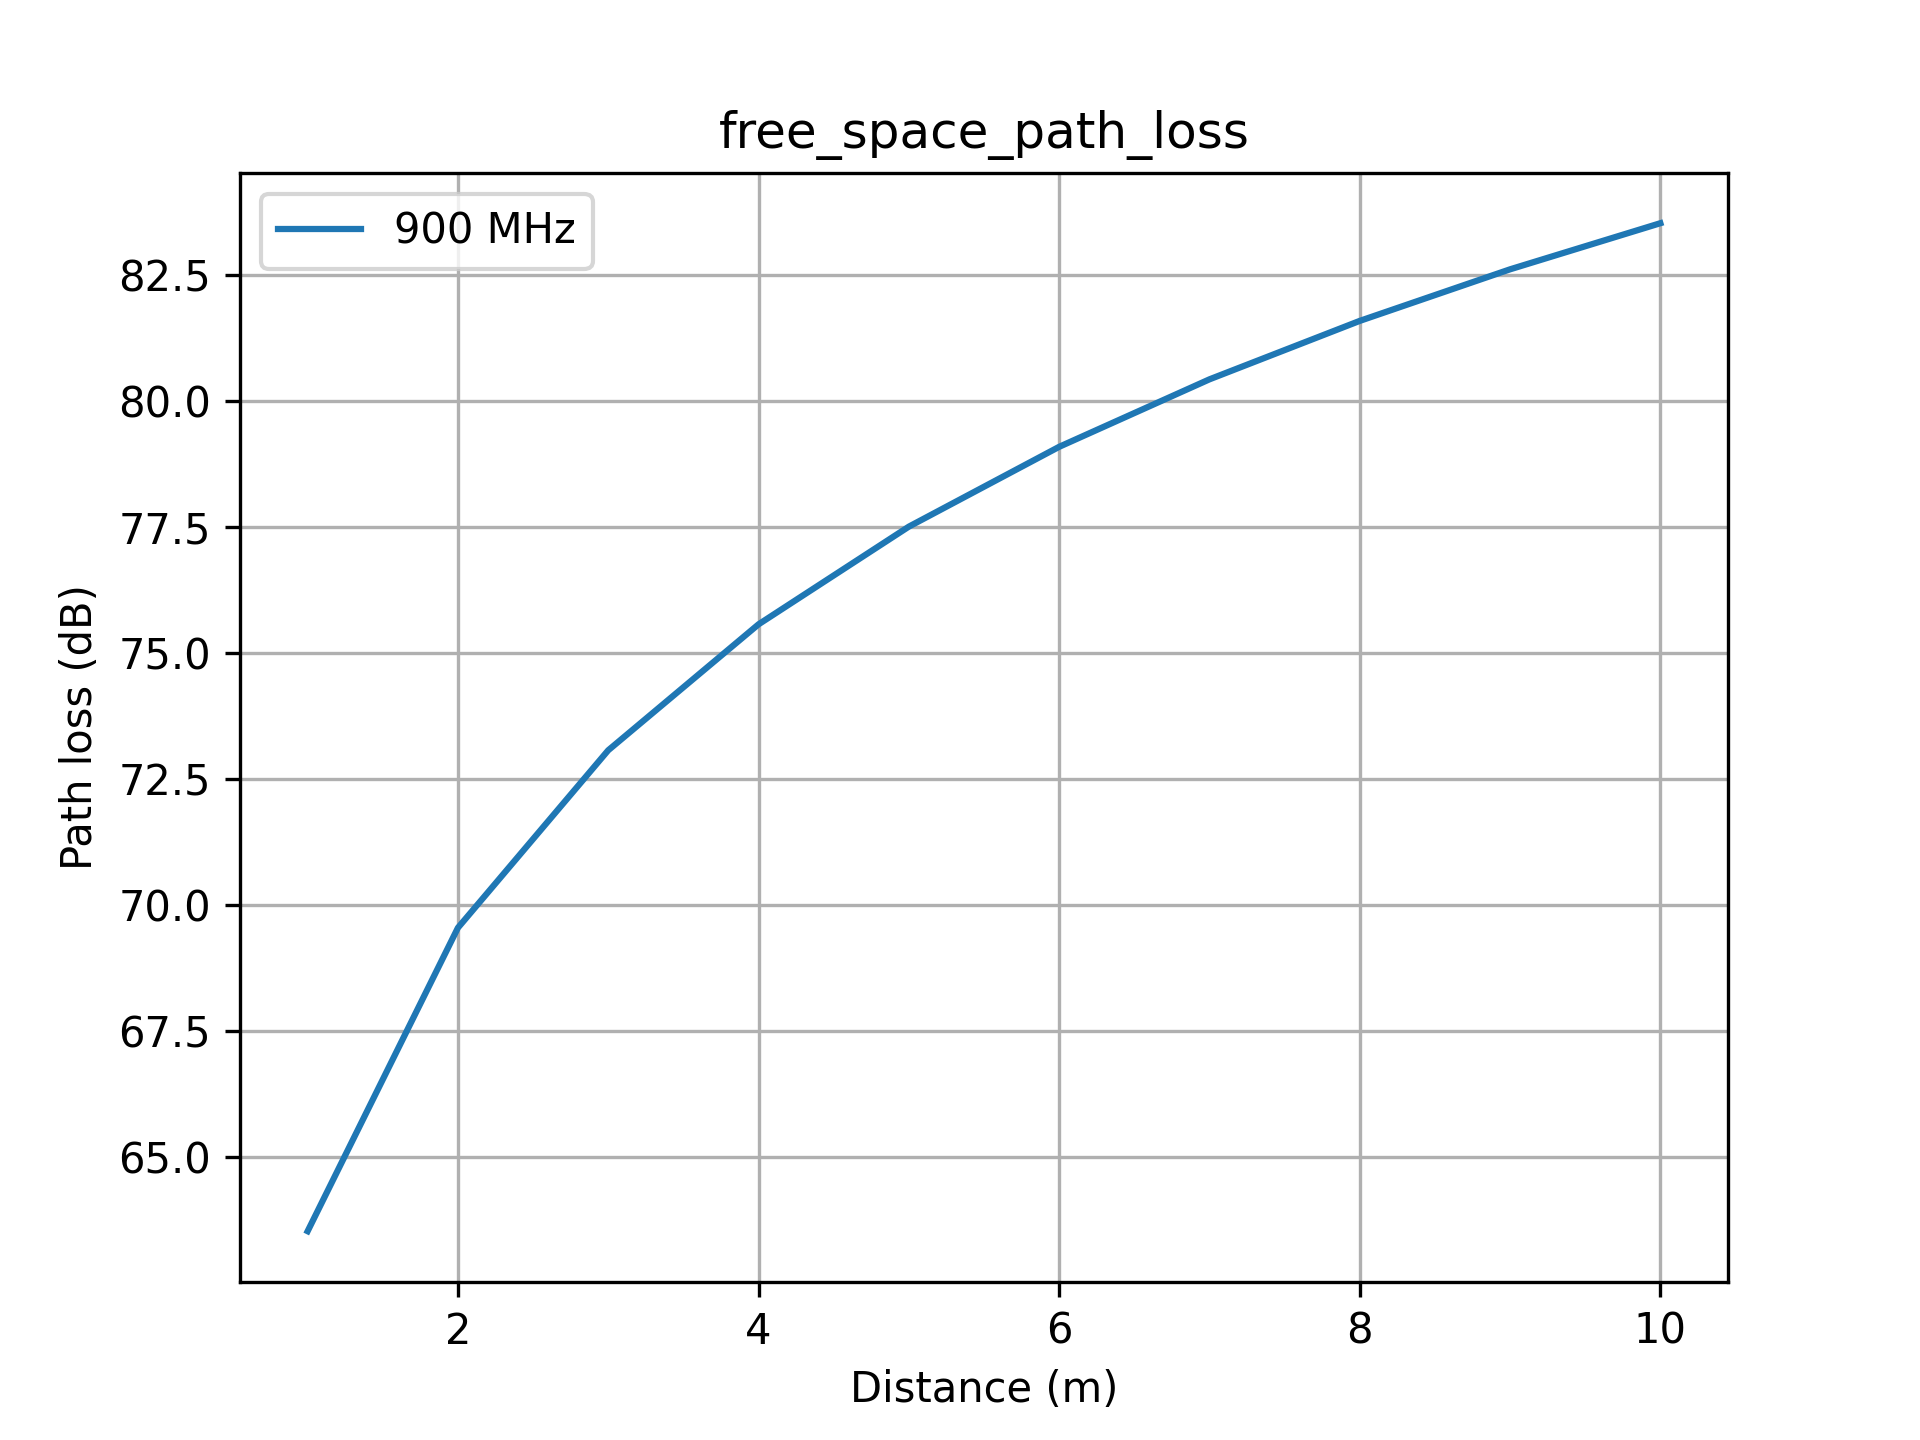
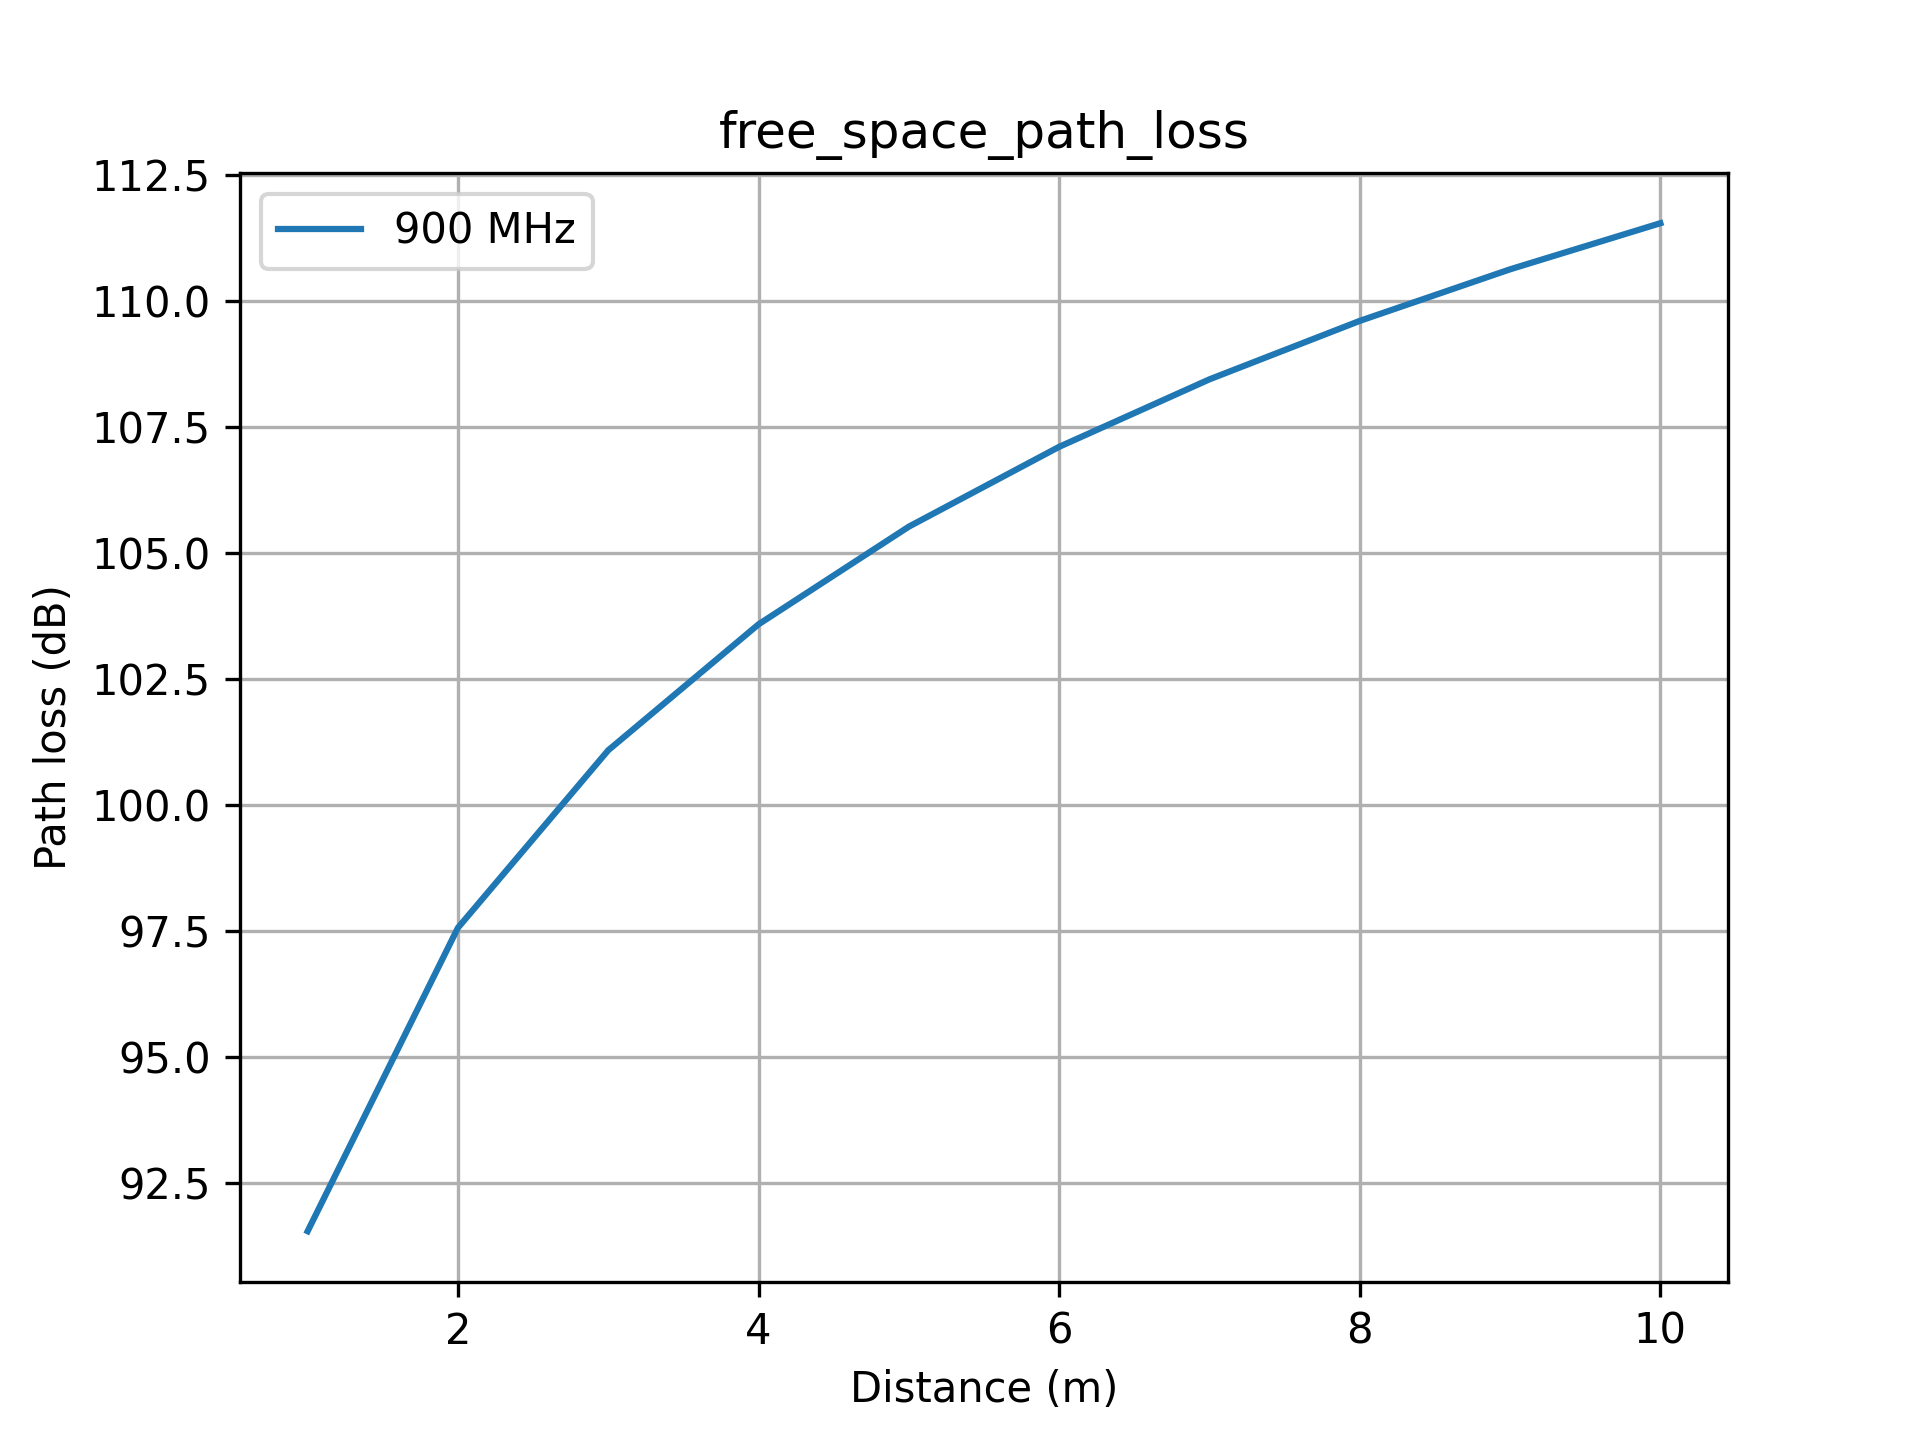
Everything working before class

diff --git a/lab2/lab2.py b/lab2/lab2.py
@@ -8,13 +8,14 @@ Gt = 28
 hm = 1
 
 
-def free_space_path_loss(d, f, Gt):
+def free_space_path_loss(d, f):
     """
     ###d - distance in m
     ###f - frequency in MHz
     ###Gt - transmit antenna gain in dBi"""
-    path_loss = 32.45 + 20 * np.log10(d) + 20 * np.log10(f) - Gt
+    path_loss = 32.45 + 20 * np.log10(d) + 20 * np.log10(f)
     return path_loss
+
 
 
 def CCIR_path_loss(d, f, b, hb, hm):
@@ -98,181 +99,222 @@ def plot_default(title, x_label='Distance (m)', y_label='Path loss (dB)'):
     plt.grid(True)
 
 
-def free_space_received_power(transmitted_power, distance, frequency, tx_antenna_gain=1, rx_antenna_gain=1):
-    """
-    Calculates the received power at a receiver given the transmitted power, distance, path loss, wavelength,
-    and antenna gains.
-
-    Args:
-    transmitted_power (float): Transmitted power in watts.
-    distance (float): Distance in meters between transmitter and receiver.
-    path_loss (float): Path loss in dB.
-    wavelength (float): Wavelength in meters of the radio signal.
-    tx_antenna_gain (float): Gain of the transmitting antenna.
-    rx_antenna_gain (float): Gain of the receiving antenna.
-
-    Returns:
-    float: Received power in watts.
-    """
-    c=3e8
-    Lambda_ = c/frequency 
-    numerator = transmitted_power * tx_antenna_gain * rx_antenna_gain(Lambda_/ (4 * np.pi * distance))**2
-    return numerator
-
-# free_space_received_power(39,d,900e6,14,14)
-
-CCIR_path_loss_1=CCIR_path_loss(d, f[0], 0.25, 35, 1)
-CCIR_path_loss_2=CCIR_path_loss(d, f[1], 0.25, 35, 1)
-path_loss=free_space_path_loss(d, f[0], Gt)
-path_loss_2=free_space_path_loss(d, f[1], Gt)
+def free_space_received_power(transmitted_power, distance, frequency, tx_antenna_gain=14, rx_antenna_gain=14, cable_loss=4):
+    received_power = transmitted_power - \
+        free_space_path_loss(distance, frequency) + \
+        tx_antenna_gain+rx_antenna_gain-cable_loss
+    return received_power
 
 
-fig1=plt.figure(1)
-plt.plot(d, path_loss, label = '900 MHz')
+def CCIR_received_power(transmitted_power, d, f, b, hb, hm, tx_antenna_gain=14, rx_antenna_gain=14, cable_loss=4):
+
+    received_power = transmitted_power - CCIR_path_loss(d, f, b, hb, hm)+tx_antenna_gain + \
+        rx_antenna_gain-cable_loss
+    return received_power
+
+
+def Hata_Model_urban_received_power(transmitted_power, f, h, a, d, C=0, tx_antenna_gain=14, rx_antenna_gain=14, cable_loss=4):
+
+    received_power = transmitted_power - Hata_Model_urban(f, h, a, d, C=0)+tx_antenna_gain + \
+        rx_antenna_gain-cable_loss
+    return received_power
+
+
+def Hata_Model_suburban_received_power(transmitted_power, f, h, a, d, C=0, tx_antenna_gain=14, rx_antenna_gain=14, cable_loss=4):
+
+    received_power = transmitted_power - Hata_Model_suburban(f, h, a, d, C=0)+tx_antenna_gain + \
+        rx_antenna_gain-cable_loss
+    return received_power
+
+
+def Hata_Model_rural_received_power(transmitted_power, f, h, a, d, C=0, tx_antenna_gain=14, rx_antenna_gain=14, cable_loss=4):
+
+    received_power = transmitted_power - Hata_Model_rural(f, h, a, d, C=0)+tx_antenna_gain + \
+        rx_antenna_gain-cable_loss
+    return received_power
+
+
+CCIR_path_loss_1 = CCIR_path_loss(d, f[0], 0.25, 35, 1)
+CCIR_path_loss_2 = CCIR_path_loss(d, f[1], 0.25, 35, 1)
+path_loss = free_space_path_loss(d, f[0])
+path_loss_2 = free_space_path_loss(d, f[1])
+
+
+fig1 = plt.figure(1)
+plt.plot(d, path_loss, label='900 MHz')
 plot_default("free_space_path_loss")
 
 
-fig2=plt.figure(2)
-plt.plot(d, path_loss_2, 'r', label = '1800 MHz')
+fig2 = plt.figure(2)
+plt.plot(d, path_loss_2, 'r', label='1800 MHz')
 plot_default("free_space_path_loss")
 
 
-fig3=plt.figure(3)
-plt.plot(d, path_loss, label = '900 MHz')
-plt.plot(d, path_loss_2, 'r', label = '1800 MHz')
+fig3 = plt.figure(3)
+plt.plot(d, path_loss, label='900 MHz')
+plt.plot(d, path_loss_2, 'r', label='1800 MHz')
 plot_default("free_space_path_loss")
 
 
-fig4=plt.figure(4)
-plt.plot(d, CCIR_path_loss_2, 'r', label = '1800 MHz')
+fig4 = plt.figure(4)
+plt.plot(d, CCIR_path_loss_2, 'r', label='1800 MHz')
 plot_default("CCIR_path_loss")
 
 
-fig5=plt.figure(5)
-plt.plot(d, CCIR_path_loss_1, label = '900 MHz')
-plt.plot(d, CCIR_path_loss_2, 'r', label = '1800 MHz')
+fig5 = plt.figure(5)
+plt.plot(d, CCIR_path_loss_1, label='900 MHz')
+plt.plot(d, CCIR_path_loss_2, 'r', label='1800 MHz')
 plot_default("CCIR_path_loss")
 
 
-fig6=plt.figure(6)
+fig6 = plt.figure(6)
 plt.plot(d, Hata_Model_urban(
-    f[0], 35, Hata_Model_medium_city_correction_factor(900, hm), d), label = '900 MHz')
+    f[0], 35, Hata_Model_medium_city_correction_factor(900, hm), d), label='900 MHz')
 plt.plot(d, Hata_Model_urban(f[1], 35, Hata_Model_medium_city_correction_factor(
-    1800, hm), d), 'r', label = '1800 MHz')
+    1800, hm), d), 'r', label='1800 MHz')
 plot_default("Hata Model urban medium city")
 
 
-fig7=plt.figure(7)
+fig7 = plt.figure(7)
 plt.plot(d, Hata_Model_urban(
-    f[0], 35, Hata_Model_large_city_corection_factor(900, d), d), label = '900 MHz')
+    f[0], 35, Hata_Model_large_city_corection_factor(900, d), d), label='900 MHz')
 plt.plot(d, Hata_Model_urban(f[1], 35, Hata_Model_large_city_corection_factor(
-    1800, d), d, 3), 'r', label = '1800 MHz')
+    1800, d), d, 3), 'r', label='1800 MHz')
 plot_default("Hata Model urban Metroploitan city")
 
 
-fig8=plt.figure(8)
+fig8 = plt.figure(8)
 plt.plot(d, Hata_Model_suburban(
-    f[0], 35, Hata_Model_medium_city_correction_factor(900, hm), d), label = '900 MHz')
+    f[0], 35, Hata_Model_medium_city_correction_factor(900, hm), d), label='900 MHz')
 plt.plot(d, Hata_Model_suburban(f[1], 35, Hata_Model_medium_city_correction_factor(
-    1800, hm), d), 'r', label = '1800 MHz')
+    1800, hm), d), 'r', label='1800 MHz')
 plot_default("Hata Model suburban medium city")
 
 
-fig9=plt.figure(9)
+fig9 = plt.figure(9)
 plt.plot(d, Hata_Model_suburban(
-    f[0], 35, Hata_Model_large_city_corection_factor(900, hm), d), label = '900 MHz')
+    f[0], 35, Hata_Model_large_city_corection_factor(900, hm), d), label='900 MHz')
 plt.plot(d, Hata_Model_suburban(f[1], 35, Hata_Model_large_city_corection_factor(
-    1800, hm), d), 'r', label = '1800 MHz')
+    1800, hm), d), 'r', label='1800 MHz')
 plot_default("Hata Model suburban Metroplotian city")
 
 
-fig10=plt.figure(10)
+fig10 = plt.figure(10)
 plt.plot(d, Hata_Model_rural(
-    f[0], 35, Hata_Model_medium_city_correction_factor(900, hm), d), label = '900 MHz')
+    f[0], 35, Hata_Model_medium_city_correction_factor(900, hm), d), label='900 MHz')
 plt.plot(d, Hata_Model_rural(f[1], 35, Hata_Model_medium_city_correction_factor(
-    1800, hm), d), 'r', label = '1800 MHz')
+    1800, hm), d), 'r', label='1800 MHz')
 plot_default("Hata Model rural medium city")
 
 
-fig11=plt.figure(11)
+fig11 = plt.figure(11)
 plt.plot(d, Hata_Model_rural(
-    f[0], 35, Hata_Model_large_city_corection_factor(900, hm), d), label = '900 MHz')
+    f[0], 35, Hata_Model_large_city_corection_factor(900, hm), d), label='900 MHz')
 plt.plot(d, Hata_Model_rural(f[1], 35, Hata_Model_large_city_corection_factor(
-    1800, hm), d, 3),  label = '1800 MHz')
+    1800, hm), d, 3),  label='1800 MHz')
 plot_default("Hata Model rural Metroplotian city")
 
-fig12=plt.figure(12)
+fig12 = plt.figure(12)
 # plot all hata models for urban, suburban and rural and compare them with both frequencies
 plt.plot(d, Hata_Model_urban(f[0], 35, Hata_Model_medium_city_correction_factor(
-    900, hm), d), label = 'urban 900 MHz')
+    900, hm), d), label='urban 900 MHz')
 plt.plot(d, Hata_Model_urban(f[1], 35, Hata_Model_medium_city_correction_factor(
-    1800, hm), d),  label = 'urban 1800 MHz')
+    1800, hm), d),  label='urban 1800 MHz')
 plt.plot(d, Hata_Model_suburban(f[0], 35, Hata_Model_medium_city_correction_factor(
-    900, hm), d), label = 'suburban 900 MHz')
+    900, hm), d), label='suburban 900 MHz')
 plt.plot(d, Hata_Model_suburban(f[1], 35, Hata_Model_medium_city_correction_factor(
-    1800, hm), d),  label = 'suburban 1800 MHz')
+    1800, hm), d),  label='suburban 1800 MHz')
 plt.plot(d, Hata_Model_rural(f[0], 35, Hata_Model_medium_city_correction_factor(
-    900, hm), d), label = 'rural 900 MHz')
+    900, hm), d), label='rural 900 MHz')
 plt.plot(d, Hata_Model_rural(f[1], 35, Hata_Model_medium_city_correction_factor(
-    1800, hm), d),  label = 'rural 1800 MHz')
+    1800, hm), d),  label='rural 1800 MHz')
 # do large city correction for 1800 MHz
 plt.plot(d, Hata_Model_urban(f[1], 35, Hata_Model_large_city_corection_factor(
-    1800, d), d, 3),  label = 'urban 1800 MHz large city')
+    1800, d), d, 3),  label='urban 1800 MHz large city')
 plt.plot(d, Hata_Model_suburban(f[1], 35, Hata_Model_large_city_corection_factor(
-    1800, hm), d),  label = 'suburban 1800 MHz large city')
+    1800, hm), d),  label='suburban 1800 MHz large city')
 plt.plot(d, Hata_Model_rural(f[1], 35, Hata_Model_large_city_corection_factor(
-    1800, hm), d, 3),  label = 'rural 1800 MHz large city')
+    1800, hm), d, 3),  label='rural 1800 MHz large city')
 # do large city correction for 900 MHz
 plt.plot(d, Hata_Model_urban(f[0], 35, Hata_Model_large_city_corection_factor(
-    900, d), d),  label = 'urban 900 MHz large city')
+    900, d), d),  label='urban 900 MHz large city')
 plt.plot(d, Hata_Model_suburban(f[0], 35, Hata_Model_large_city_corection_factor(
-    900, hm), d),  label = 'suburban 900 MHz large city')
+    900, hm), d),  label='suburban 900 MHz large city')
 plt.plot(d, Hata_Model_rural(f[0], 35, Hata_Model_large_city_corection_factor(
-    900, hm), d),  label = 'rural 900 MHz large city')
+    900, hm), d),  label='rural 900 MHz large city')
 
 
 plot_default(
     "All Hata Models COMPARISON (urban, suburban, rural) for 900 and 1800 MHz")
 
-fig12=plt.figure(13)
+fig12 = plt.figure(13)
 plt.plot(d, Hata_Model_urban(f[0], 35, Hata_Model_medium_city_correction_factor(
-    900, hm), d), label = 'urban 900 MHz')
+    900, hm), d), label='urban 900 MHz')
 plt.plot(d, Hata_Model_urban(f[1], 35, Hata_Model_medium_city_correction_factor(
-    1800, hm), d),  label = 'urban 1800 MHz')
+    1800, hm), d),  label='urban 1800 MHz')
 plt.plot(d, Hata_Model_suburban(f[0], 35, Hata_Model_medium_city_correction_factor(
-    900, hm), d), label = 'suburban 900 MHz')
+    900, hm), d), label='suburban 900 MHz')
 plt.plot(d, Hata_Model_suburban(f[1], 35, Hata_Model_medium_city_correction_factor(
-    1800, hm), d),  label = 'suburban 1800 MHz')
+    1800, hm), d),  label='suburban 1800 MHz')
 plt.plot(d, Hata_Model_rural(f[0], 35, Hata_Model_medium_city_correction_factor(
-    900, hm), d), label = 'rural 900 MHz')
+    900, hm), d), label='rural 900 MHz')
 plt.plot(d, Hata_Model_rural(f[1], 35, Hata_Model_medium_city_correction_factor(
-    1800, hm), d),  label = 'rural 1800 MHz')
+    1800, hm), d),  label='rural 1800 MHz')
 # do large city correction for 1800 MHz
 plt.plot(d, Hata_Model_urban(f[1], 35, Hata_Model_large_city_corection_factor(
-    1800, d), d, 3),  label = 'urban 1800 MHz large city')
+    1800, d), d, 3),  label='urban 1800 MHz large city')
 plt.plot(d, Hata_Model_suburban(f[1], 35, Hata_Model_large_city_corection_factor(
-    1800, hm), d),  label = 'suburban 1800 MHz large city')
+    1800, hm), d),  label='suburban 1800 MHz large city')
 plt.plot(d, Hata_Model_rural(f[1], 35, Hata_Model_large_city_corection_factor(
-    1800, hm), d, 3),  label = 'rural 1800 MHz large city')
+    1800, hm), d, 3),  label='rural 1800 MHz large city')
 # do large city correction for 900 MHz
 plt.plot(d, Hata_Model_urban(f[0], 35, Hata_Model_large_city_corection_factor(
-    900, d), d),  label = 'urban 900 MHz large city')
+    900, d), d),  label='urban 900 MHz large city')
 plt.plot(d, Hata_Model_suburban(f[0], 35, Hata_Model_large_city_corection_factor(
-    900, hm), d),  label = 'suburban 900 MHz large city')
+    900, hm), d),  label='suburban 900 MHz large city')
 plt.plot(d, Hata_Model_rural(f[0], 35, Hata_Model_large_city_corection_factor(
-    900, hm), d),  label = 'rural 900 MHz large city')
-plt.plot(d, path_loss, label = ' Free Space 900 MHz')
-plt.plot(d, path_loss_2,  label = ' Free Space 1800 MHz')
-plt.plot(d, CCIR_path_loss_1, label = 'CCIR 900 MHz')
-plt.plot(d, CCIR_path_loss_2, label = 'CCIR 1800 MHz')
+    900, hm), d),  label='rural 900 MHz large city')
+plt.plot(d, path_loss, label=' Free Space 900 MHz')
+plt.plot(d, path_loss_2,  label=' Free Space 1800 MHz')
+plt.plot(d, CCIR_path_loss_1, label='CCIR 900 MHz')
+plt.plot(d, CCIR_path_loss_2, label='CCIR 1800 MHz')
+plot_default("Free space CICR  Hata Models COMPARISON (urban, suburban, rural) for 900 and 1800 MHz")
 
+fig11 = plt.figure(14)
+plt.plot(d, free_space_received_power(39, d, f[0]), label='free space 900 MHz')
+plt.plot(d, free_space_received_power(
+    39, d, f[1]), label=' free space 1800 MHz')
+plt.plot(d, CCIR_received_power(
+    39, d, f[1], 0.25, 35, 1), label=' CICR 900 MHz')
+plt.plot(d, CCIR_received_power(
+    39, d, f[1], 0.25, 35, 1), label='CCIR 1800 MHz')
+
+plt.plot(d, Hata_Model_urban_received_power(
+    39, f[0], 35, Hata_Model_medium_city_correction_factor(900, hm), d), label='Hata urban 900 MHz')
+plt.plot(d, Hata_Model_urban_received_power(
+    39, f[0], 35, Hata_Model_medium_city_correction_factor(1800, hm), d), label='Hata urban 1800 MHz')
+
+plt.plot(d, Hata_Model_suburban_received_power(
+    39, f[1], 35, Hata_Model_large_city_corection_factor(900, hm), d), label='Hata suburban 1800 MHz')
+plt.plot(d, Hata_Model_suburban_received_power(
+    39, f[1], 35, Hata_Model_large_city_corection_factor(1800, hm), d), label='Hata suburban 1800 MHz')
+
+plt.plot(d, Hata_Model_rural_received_power(
+    39, f[1], 35, Hata_Model_medium_city_correction_factor(900, hm), d), label='Hata rural 900 MHz')
+plt.plot(d, Hata_Model_rural_received_power(
+    39, f[1], 35, Hata_Model_medium_city_correction_factor(1800, hm), d), label='Hata rural 1800 MHz')
 
 plot_default(
-    "All Models CICR Free space Hata COMPARISON (urban, suburban, rural) for 900 and 1800 MHz")
+    "Comparing received power of CICR, Free space, and Hata models in urban, suburban, and rural areas for 900 and 1800 MHz.",y_label="Received Power (dBm)")
 
-save_path=r'E:\OneDrive - University of Bahrain\Documents\UNI\ITCE450\Lab\lab2\figures'
-for i in range(1, 14):
-    fig=plt.figure(i)
-    fig.savefig(save_path + r'\figure' + str(i) + '.png', dpi = 300)
+fig15 = plt.figure(15)
+plt.plot(d, Hata_Model_rural_received_power(
+    39, f[1], 35, Hata_Model_medium_city_correction_factor(1800, hm), d), label='Hata rural 1800 MHz')
+plot_default("Hata rural 1800 MHz", y_label="Received Power (dBm)")
+save_path = r'E:\OneDrive - University of Bahrain\Documents\UNI\ITCE450\Lab\lab2\figures'
+for i in range(1, 16):
+    fig = plt.figure(i)
+    fig.savefig(save_path + r'\figure' + str(i) + '.png', dpi=300)
 
+# Make same as fig 12 but use hata class to plot
 plt.show()
